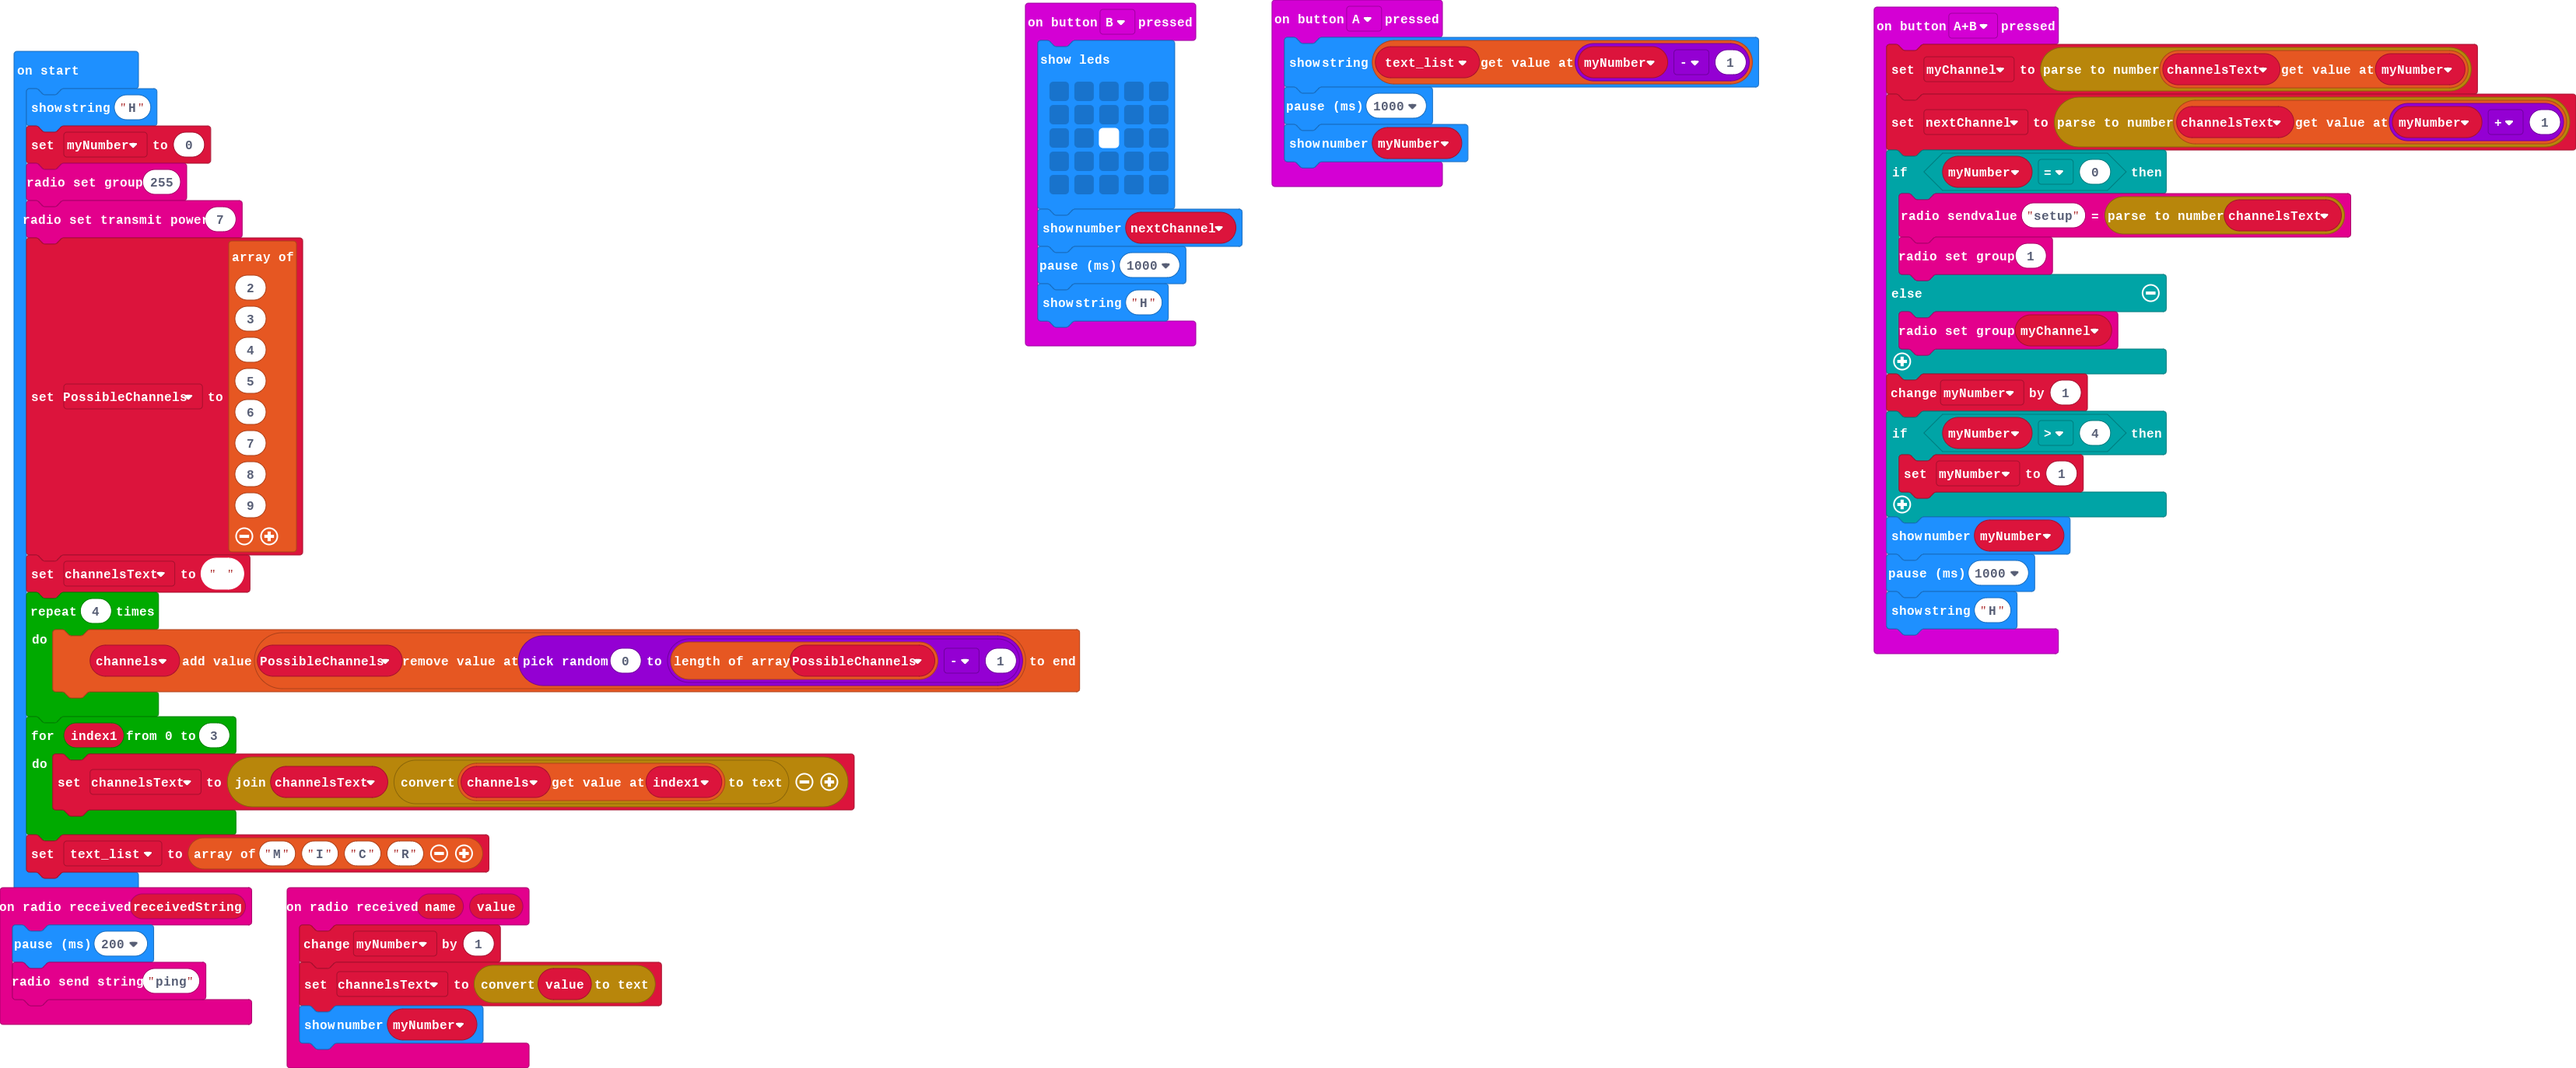
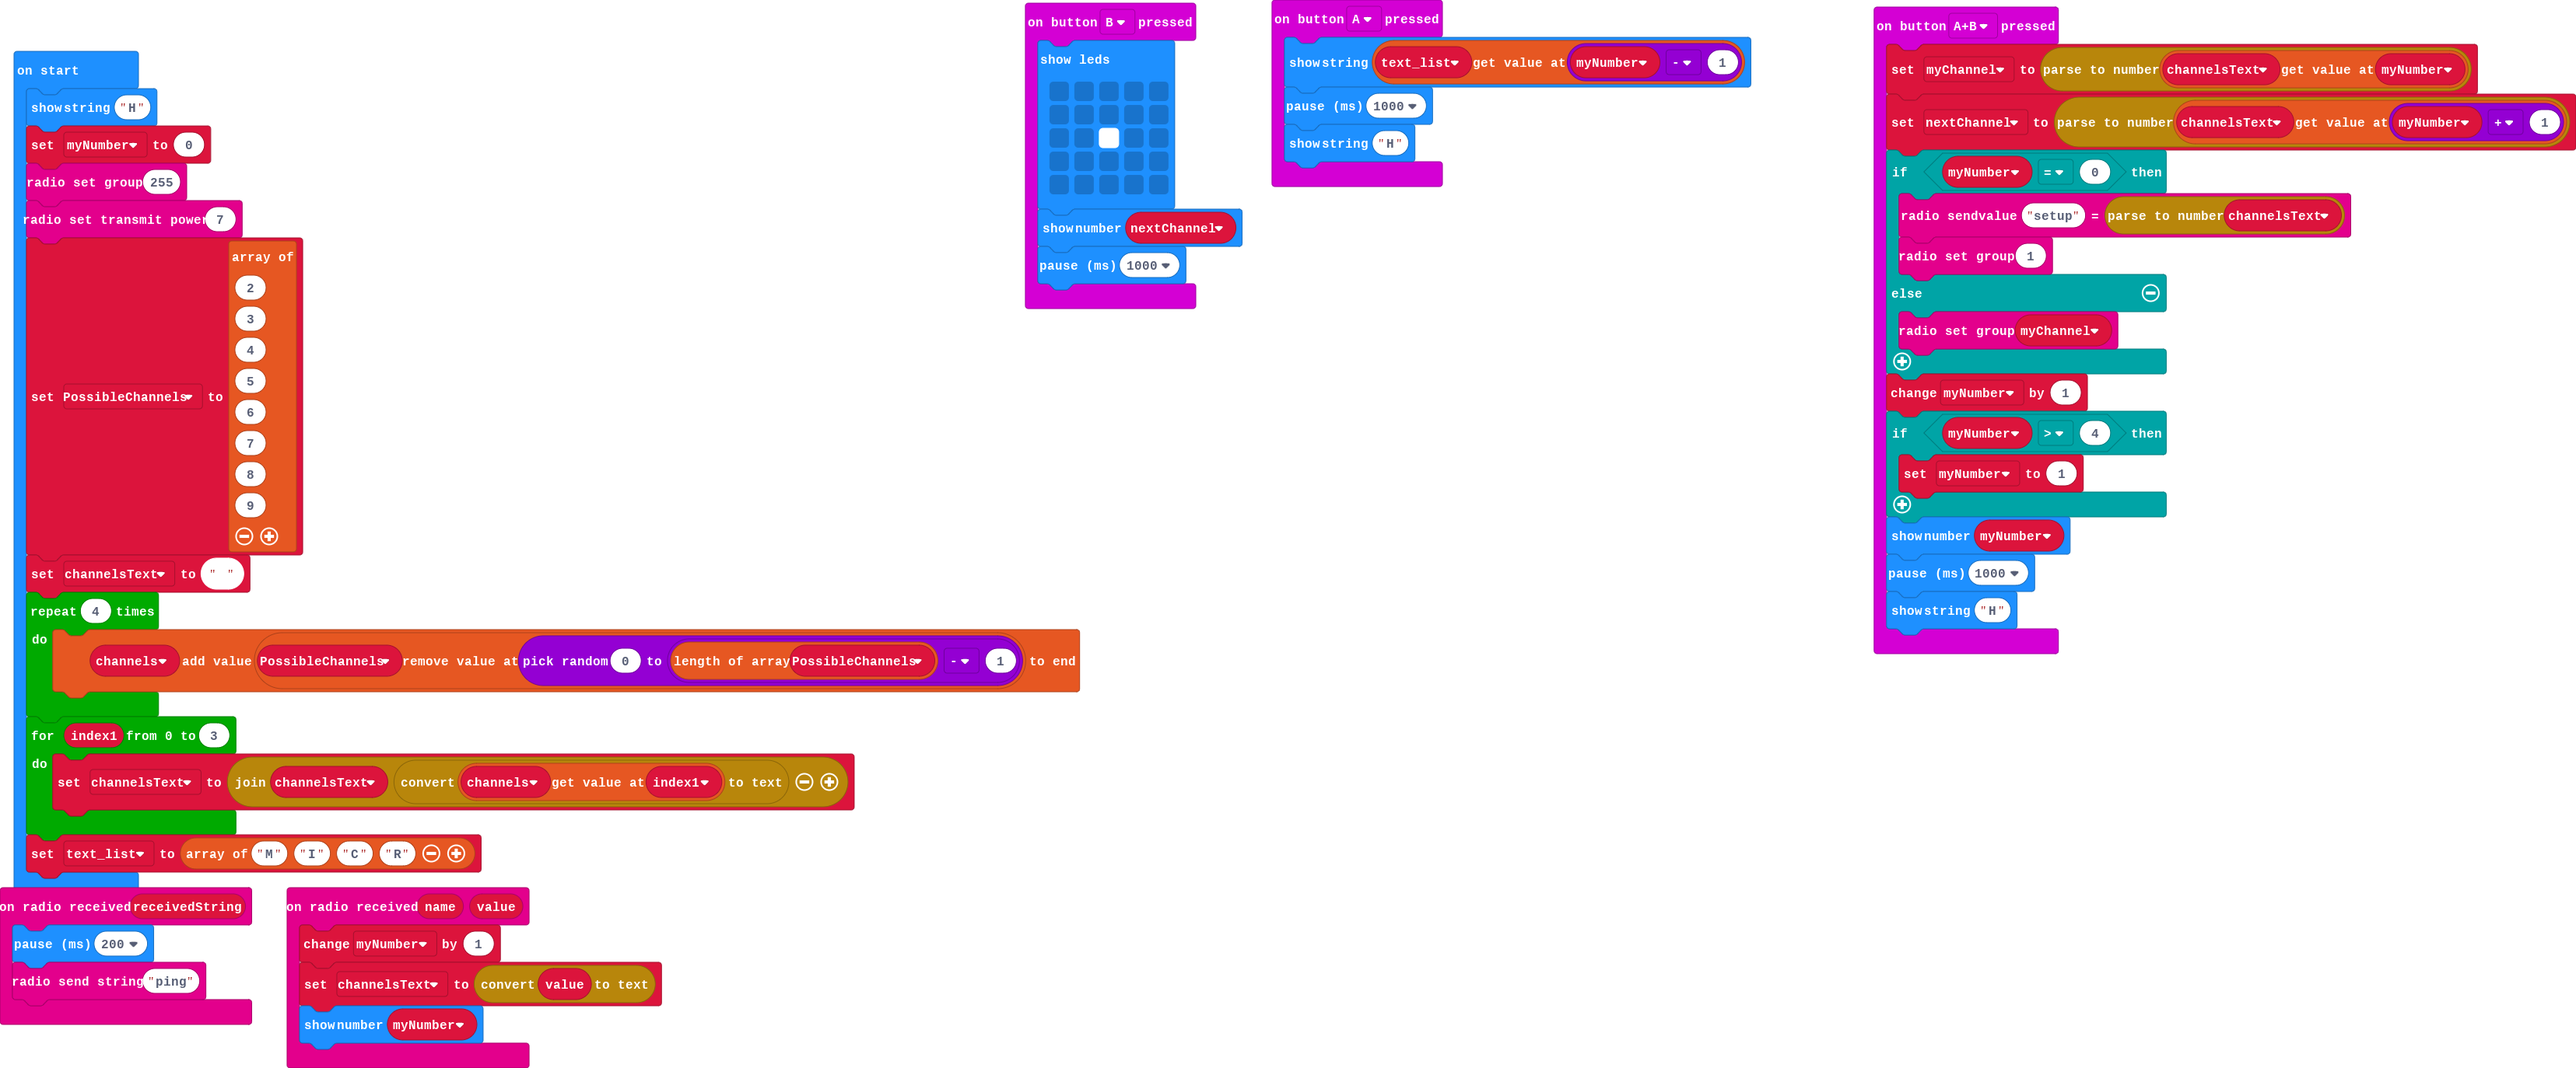
Update main.blocks, main.ts

diff --git a/main.ts b/main.ts
@@ -34,12 +34,11 @@ input.onButtonPressed(Button.B, function () {
         `)
     basic.showNumber(nextChannel)
     basic.pause(1000)
-    basic.showString("H")
 })
 input.onButtonPressed(Button.A, function () {
     basic.showString("" + (text_list[myNumber - 1]))
     basic.pause(1000)
-    basic.showNumber(myNumber)
+    basic.showString("H")
 })
 let nextChannel = 0
 let myChannel = 0
